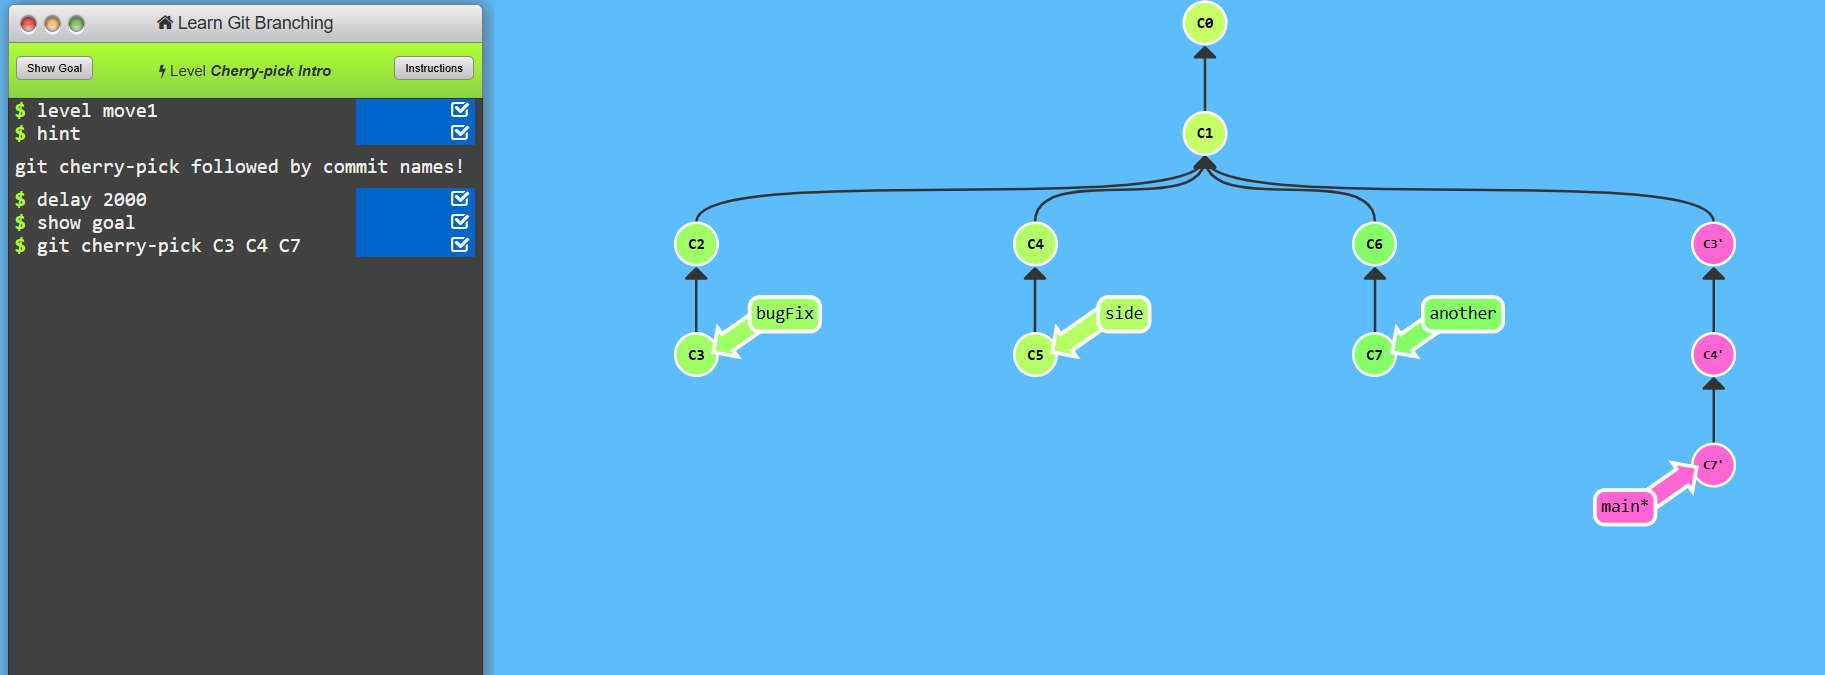
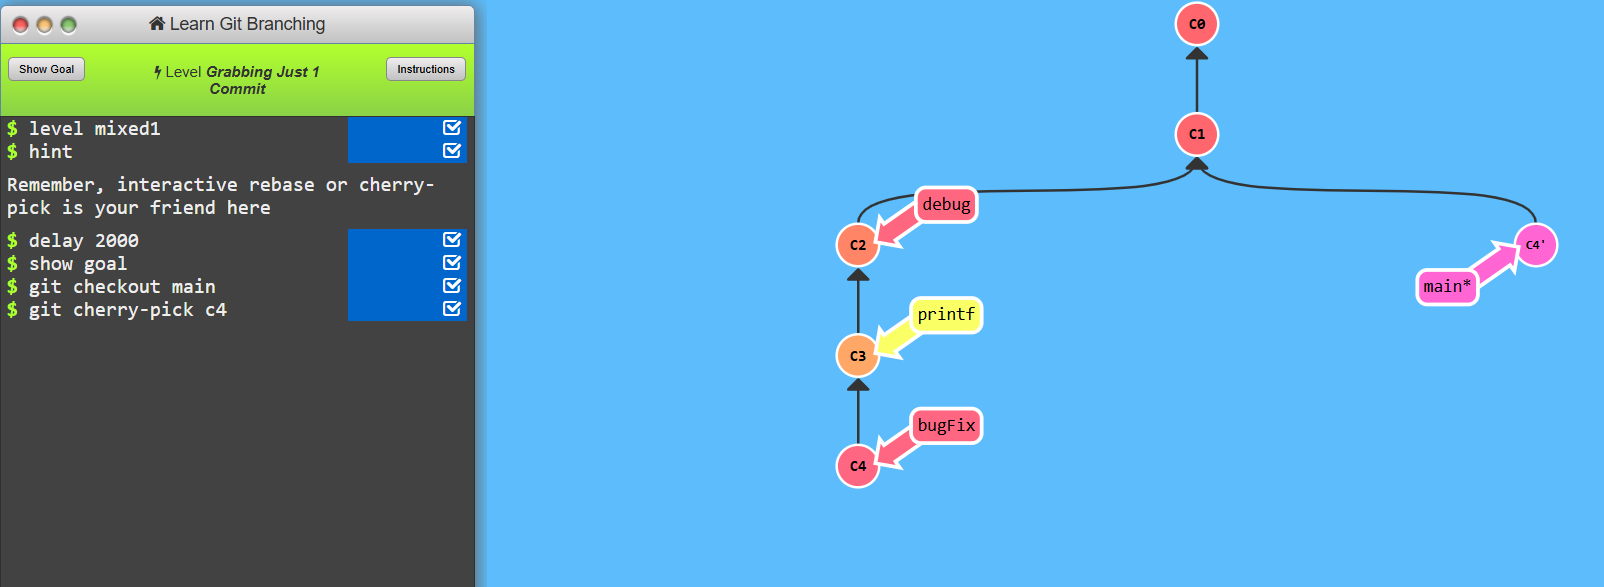
all levels are added with a completion

diff --git a/README.md b/README.md
@@ -1,1 +1,47 @@
 # LearnGitBranching
+
+This project contains various sections covering different topics related to Git branching, with supporting images and markdown documentation.
+
+## Folder Structure
+
+```
+LEARNINGGITBRANCHING
+└── .git
+
+└── A Mixed Bag
+    ├── A Mixed Bag.md
+    ├── image-1.png
+    ├── image-2.png
+    ├── image-3.png
+    ├── image-4.png
+    ├── image.png
+
+└── Advanced Topics
+    ├── Advanced Topics.md
+    ├── image-1.png
+    ├── image-2.png
+    ├── image-3.png
+    ├── image.png
+
+└── Introduction_Sequence
+    ├── Introduction Sequence.md
+    ├── image-1.png
+    ├── image-2.png
+    ├── image-4.png
+    ├── image-5.png
+    ├── image.png
+
+└── Moving Work Around
+    ├── Moving Work Around.md
+    ├── image-1.png
+    ├── image-2.png
+
+└── Ramping_Up
+    ├── RampingUp.md
+    ├── image-1.png
+    ├── image-2.png
+    ├── image-3.png
+    ├── image.png
+
+└── README.md
+```

diff --git a/A Mixed Bag/A Mixed Bag.md b/A Mixed Bag/A Mixed Bag.md
@@ -1,12 +1,47 @@
-# Level-3 A Mixed Bag
+# Level-4 A Mixed Bag
 
-
+## Task1 Grabbing Just 1 commit
 ```
-    git cherry-pick C3 C4 C7
+    git checkout main
+    git cherry-pick c4
 ```
 ![alt text](image.png)
 
+
+## Task2 Juggling Commits
 ```
-    git rebase -i HEAD~4
+    git rebase -i HEAD~2
+    git commit --amend
+    git rebase -i HEAD~2
+    git checkout main
+    git merge caption 
 ```
 ![alt text](image-1.png)
+
+## Task3 Juggling Commits #2
+```
+    git checkout main
+    git cherry-pick c2
+    git commit --amend
+    git cherry-pick c3
+```
+![alt text](image-2.png)
+
+
+## Task4 Git tags
+```
+   git tag v0 c1
+   git checkout c2
+   git tag v1 c2 
+```
+![alt text](image-3.png)
+
+
+## Task5 Git describe
+```
+    git describe main (for practice describe command and to see nearest ancestor commit and I did same for branch side and bugFix)
+    git describe side
+    git describe bugFix
+    git commit
+```
+![alt text](image-4.png)

diff --git a/Advanced Topics/Advanced Topics.md b/Advanced Topics/Advanced Topics.md
@@ -1,0 +1,39 @@
+# Level-5 Advanced Topics
+
+## Task1 Rebasing over 9000 times
+```
+    git rebase main bugFix
+    git rebase bugFix side
+    git rebase side another
+    git rebase another main
+```
+![alt text](image.png)
+
+## Task2 Multiple Parents
+```
+    git branch -f bugWork c2
+```
+![alt text](image-1.png)
+
+## Task3 Branch Spaghetti
+```
+    git rebase -i c1
+    git branch -f main c5
+    git rebase -i c1
+    git branch -f one c2'
+    git branch -f two c2''
+    git branch -f three c2
+    git branch -f main c5
+```
+## (one way)
+![alt text](image-2.png)
+
+```
+    git branch -f three c2
+    git checkout one
+    git cherry-pick c4 c3 c2
+    git checkout two
+    git cherry-pick c5 c4 c3 c2
+```
+## (second way)
+![alt text](image-3.png)

diff --git a/Introduction_Sequence/Introduction Sequence.md b/Introduction_Sequence/Introduction Sequence.md
@@ -1,32 +1,32 @@
 # Level-1 Introduction Sequence 
 
+## Task1 Intorduction to git commits
 ```
     git commit
     git commit
 ```
-
 ![alt text](image.png)
 
-```
-![alt text](image-1.png)
-```
-![alt text](image-2.png)
-
-
+## Task2 Branching a Git
 ```
     git branch bugFix
     git checkout bugFix
+```
+![alt text](image-2.png)
+
+## Task3 Merging in git
+```
+    git checkout -b bugFix
     git commit 
     git checkout main
     git commit 
     git merge bugFix
 ```
-![alt text](image-3.png)
+![alt text](image-5.png)
 
-
+## Task4 Rebase Introduction
 ```
-    git branch bugFix
-    git checkout bugFix
+    git checkout -b bugFix
     git commit
     git checkout main
     git commit

diff --git a/Ramping_Up/RampingUp.md b/Ramping_Up/RampingUp.md
@@ -1,21 +1,26 @@
 # Level-2 Ramping UP 
 
+## Task1 Detach Head
 ```
     git checkout c4
 ```
 ![alt text](image.png)
 
+## Task2 Relative Refs
 ```
     git checkout c3
 ```
 ![alt text](image-1.png)
 
-
+## Task3 Relative Refs #2
 ```
-    
+   git branch -f main c6
+   git checkout HEAD~1
+   git branch -f bugFix HEAD~1 
 ```
 ![alt text](image-2.png)
 
+## Task4 Reversing Changes in a Git
 ```
     git reset HEAD~1
     git checkout pushed

diff --git a/Moving Work Around/Moving Work Around.md b/Moving Work Around/Moving Work Around.md
@@ -1,17 +1,13 @@
-# Level-4 Moving Work Around
+# Level-3 A Moving Work Around
 
-
+## Task1 Cherry-pick Intro
 ```
-    git checkout main
-    git cherry-pick c4
+    git cherry-pick C3 C4 C7
 ```
 ![alt text](image.png)
 
+## Task2 Interactive Rebase Intro
 ```
-    git rebase -i HEAD~2
-    git commit --amend
-    git rebase -i HEAD~2
-    git checkout main
-    git merge caption 
+    git rebase -i HEAD~4
 ```
 ![alt text](image-1.png)
